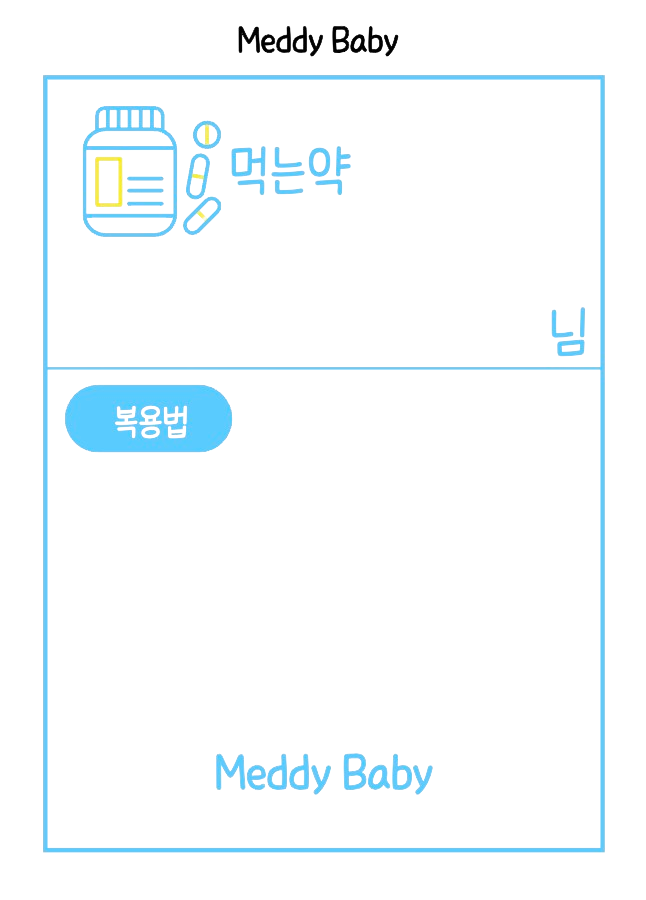
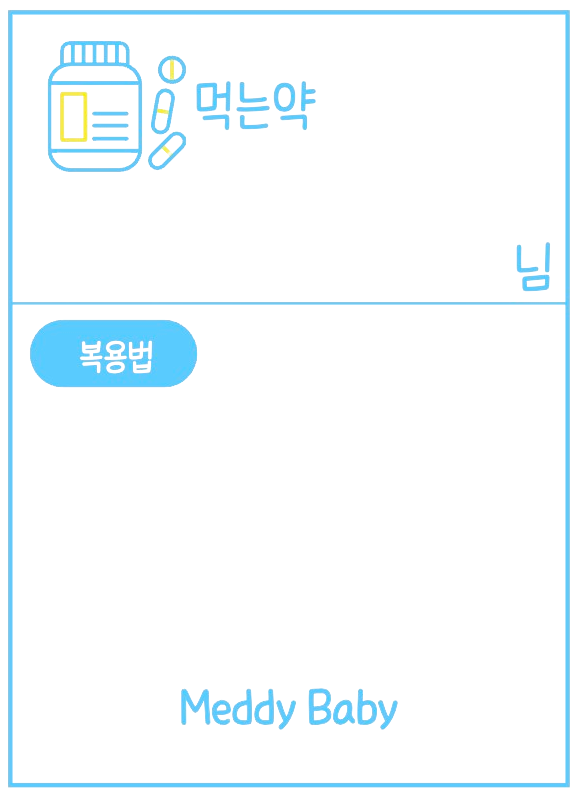
[feat] InfoPage3 CSS 완성

Changed region(s): [[0.0, 0.0, 1.0, 0.9925]]

diff --git a/client/src/components/InfoPage/InfoPage_3.js b/client/src/components/InfoPage/InfoPage_3.js
@@ -1,5 +1,6 @@
 import React, { useState } from 'react';
 import { Link } from 'react-router-dom';
+import "./InfoPage_3.css"
 
 
 function InfoPage_3() {
@@ -103,19 +104,30 @@ function InfoPage_3() {
   };
 
   const cancleAlarm = () => {
-    alert("알람을 사용하지 않습니다.");
+    alert("알람을 사용하지 않습니다. (설정에서 다시 알람을 다시 설정할 수 있습니다.)");
   };
 
   return (
     <div>
-        Meddy Baby
-        알람 설정
-      {/* 첫 번째 버튼 */}
+      <div className="text1">
+        <h1>
+        MeddyBaby
+        </h1>
+      </div>
+
+      <div className="background3">
+        <h1></h1>
+      </div>
+
+     <div className="alarmset">
+
+      <div className="set1">
       <button onClick={handleModalOpen1}>
         {`(${ampm1} ${hour1}:${minute1})`}
       </button>
+
       {modalOpen1 && (
-        <div className="modal">
+        <div className="modal1">
           <div className="modal-content">
             <label>
               <input type="radio" value="AM" checked={ampm1 === 'AM'} onChange={handleAMPMChange1} />
@@ -125,19 +137,24 @@ function InfoPage_3() {
               <input type="radio" value="PM" checked={ampm1 === 'PM'} onChange={handleAMPMChange1} />
               PM
             </label>
+
+            <div className="modalbox">
             <input type="number" value={hour1} onChange={handleHourChange1} /> 시
             <input type="number" value={minute1} onChange={handleMinuteChange1} /> 분
+            </div>
+
             <button onClick={handleConfirm1}>확인</button>
           </div>
         </div>
       )}
+      </div>
 
-      {/* 두 번째 버튼 */}
+      <div className="set2">
       <button onClick={handleModalOpen2}>
         {`(${ampm2} ${hour2}:${minute2})`}
       </button>
       {modalOpen2 && (
-        <div className="modal">
+        <div className="modal2">
           <div className="modal-content">
             <label>
               <input type="radio" value="AM" checked={ampm2 === 'AM'} onChange={handleAMPMChange2} />
@@ -147,19 +164,22 @@ function InfoPage_3() {
               <input type="radio" value="PM" checked={ampm2 === 'PM'} onChange={handleAMPMChange2} />
               PM
             </label>
-            <input type="number" value={hour2} onChange={handleHourChange2} /> 시
-            <input type="number" value={minute2} onChange={handleMinuteChange2} /> 분
+            <div className="modalbox">
+            <input type="number" value={hour1} onChange={handleHourChange2} /> 시
+            <input type="number" value={minute1} onChange={handleMinuteChange2} /> 분
+            </div>
             <button onClick={handleConfirm2}>확인</button>
           </div>
         </div>
       )}
+      </div>
 
-      {/* 세 번째 버튼 */}
+      <div className="set3">
       <button onClick={handleModalOpen3}>
         {`(${ampm3} ${hour3}:${minute3})`}
       </button>
       {modalOpen3 && (
-        <div className="modal">
+        <div className="modal3">
           <div className="modal-content">
             <label>
               <input type="radio" value="AM" checked={ampm3 === 'AM'} onChange={handleAMPMChange3} />
@@ -169,24 +189,25 @@ function InfoPage_3() {
               <input type="radio" value="PM" checked={ampm3 === 'PM'} onChange={handleAMPMChange3} />
               PM
             </label>
-            <input type="number" value={hour3} onChange={handleHourChange3} /> 시
-            <input type="number" value={minute3} onChange={handleMinuteChange3} /> 분
+
+            <div className="modalbox">
+            <input type="number" value={hour1} onChange={handleHourChange3} /> 시
+            <input type="number" value={minute1} onChange={handleMinuteChange3} /> 분
+            </div >
             <button onClick={handleConfirm3}>확인</button>
           </div>
         </div>
       )}
+      </div>
+     </div>
 
-      알람을 이대로 설정할까요?
-
-      <div>
+      <div className="confirm">
       <button onClick={setAlarm}>이대로 설정!</button>
     </div>
 
-    <div>
+    <div className="deny">
       <button onClick={cancleAlarm}>알람을 사용하지 않을래요.</button>
     </div>
-
-    (설정에서 설정 가능)
 
     <div className="navigator">
        <Link to="./Main" className="nav-item">다음</Link>

diff --git a/client/src/components/InfoPage/InfoPage_3.css b/client/src/components/InfoPage/InfoPage_3.css
@@ -1,0 +1,98 @@
+
+input[type="number"] {
+    width: 50px; /* 원하는 가로 너비로 조정 */
+  }
+
+.background3{
+    display: flex;
+    background-image: url('../../../public/info3_background.png');
+    width: 100%;
+    height: 100%;
+    background-repeat: no-repeat;
+    background-size: 95%;
+    position: absolute;
+    top: 60px; /* 원하는 위치로 조정 */
+    left: 53%;
+     transform: translateX(-50%);
+}
+
+.text1{
+    text-align: center;
+}
+
+.alarmset{
+    position: absolute;
+    top: 18%;
+    left: 9%;
+
+}
+
+.set1,
+.set2,
+.set3{
+    margin-top: 50px; /* 버튼 사이의 간격 조절 */
+
+}
+
+button {
+    background-color: #87CEEB; /* 배경색: 하늘색 */
+    border: none; /* 테두리 제거 */
+    border-radius: 20px; /* 둥근 모서리 */
+    padding: 10px 20px; /* 내부 여백 */
+    font-size: 16px; /* 글꼴 크기 */
+    cursor: pointer; /* 마우스 커서를 포인터로 변경하여 버튼임을 나타냄 */
+    color:#ffffff ;
+  }
+  
+  .confirm{ /*이대로 설정!*/
+    position: absolute;
+    top: 70%;
+    left: 10%;
+  }
+
+  .deny button{ /*알람을 설정하지 않을래요*/
+    position: absolute;
+    top: 78%;
+    left: 10%;
+    background-color: #c2c2c2;
+    font-size: 12px; /* 글꼴 크기 */
+  }
+
+
+
+  .modal1{
+    position: absolute;
+    top: 19%;
+    left: 120%;
+    
+  }
+  .modal2{
+    position: absolute;
+    top: 52%;
+    left: 120%;
+  }
+  .modal3{
+    position: absolute;
+    top: 84%;
+    left: 120%;
+  }
+
+  .modal1 button,
+  .modal2 button,
+  .modal3 button{
+    background-color: #c2c2c2;
+    font-size: 12px; /* 글꼴 크기 */
+    color:#000000 ;
+
+  }
+
+  .modal1 label,
+  .modal2 label,
+  .modal3 label{
+    font-size: 10px; /* 글꼴 크기 */
+    margin-right : 10px;
+  }
+
+  .modalbox{
+    display: flex;
+  }

diff --git a/client/src/components/InfoPage/InfoPage_2.css b/client/src/components/InfoPage/InfoPage_2.css
@@ -1,14 +1,17 @@
-.background{
+.background2{
     display: flex;
     background-image: url('../../../public/info2_background.png');
     width: 100%;
     height: 100%;
     background-repeat: no-repeat;
-    background-size: 100%;
+    background-size: 95%;
     position: absolute;
-    top: 10px; /* 원하는 위치로 조정 */
-    left: 50%;
+    top: 60px; /* 원하는 위치로 조정 */
+    left: 53%;
      transform: translateX(-50%);
+}
+.text1 { /*MeddyBaby*/
+    text-align: center;
 }
 
 .text1 { /*MeddyBaby*/
@@ -19,8 +22,8 @@
 
   .buttons{
     position: absolute;
-    top: 360px; /* 원하는 위치로 조정 */
-    left: 40%;
+    top: 390px; /* 원하는 위치로 조정 */
+    left: 49%;
      transform: translateX(-50%);
 
      display: flex; /*가로로 배치*/
@@ -31,7 +34,7 @@
 .morning,
 .lunch,
 .dinner {
-    border-color: '#87CEEB'; /* 테두리 제거 */
+    border-color: '#87CEEB'; /* 테두리 색상 */
     margin-right: 10px; /* 버튼 사이의 간격 조절 */
     margin-left: 10px;
 }
@@ -39,12 +42,10 @@
 .checkbox{
 
     position: absolute;
-    top: 420px; /* 원하는 위치로 조정 */
+    top: 480px; /* 원하는 위치로 조정 */
     left: 50%;
      transform: translateX(-50%);
      display: flex;
-
-    
 
 }
 
@@ -58,3 +59,11 @@
     color: #3995b9; /* 원하는 색상으로 변경 */
   }
   
+.timeset{
+    position: absolute;
+    top: 66%;
+    left: 16%;
+    color: #3995b9;
+    
+
+}

diff --git a/client/src/components/InfoPage/InfoPage_2.js b/client/src/components/InfoPage/InfoPage_2.js
@@ -51,9 +51,14 @@ function InfoPage_2() {
     return (
 
      <div className="Page2">
+      <div className="text1">
+        <h1>
+        MeddyBaby
+      </h1>
+      </div>
       
   
-      <div className="background">
+      <div className="background2">
         <h1></h1>
       </div>
 
@@ -145,8 +150,6 @@ function InfoPage_2() {
         />
         <label>식전 30분</label>
        </div>
-
-
 
         </div>
 
